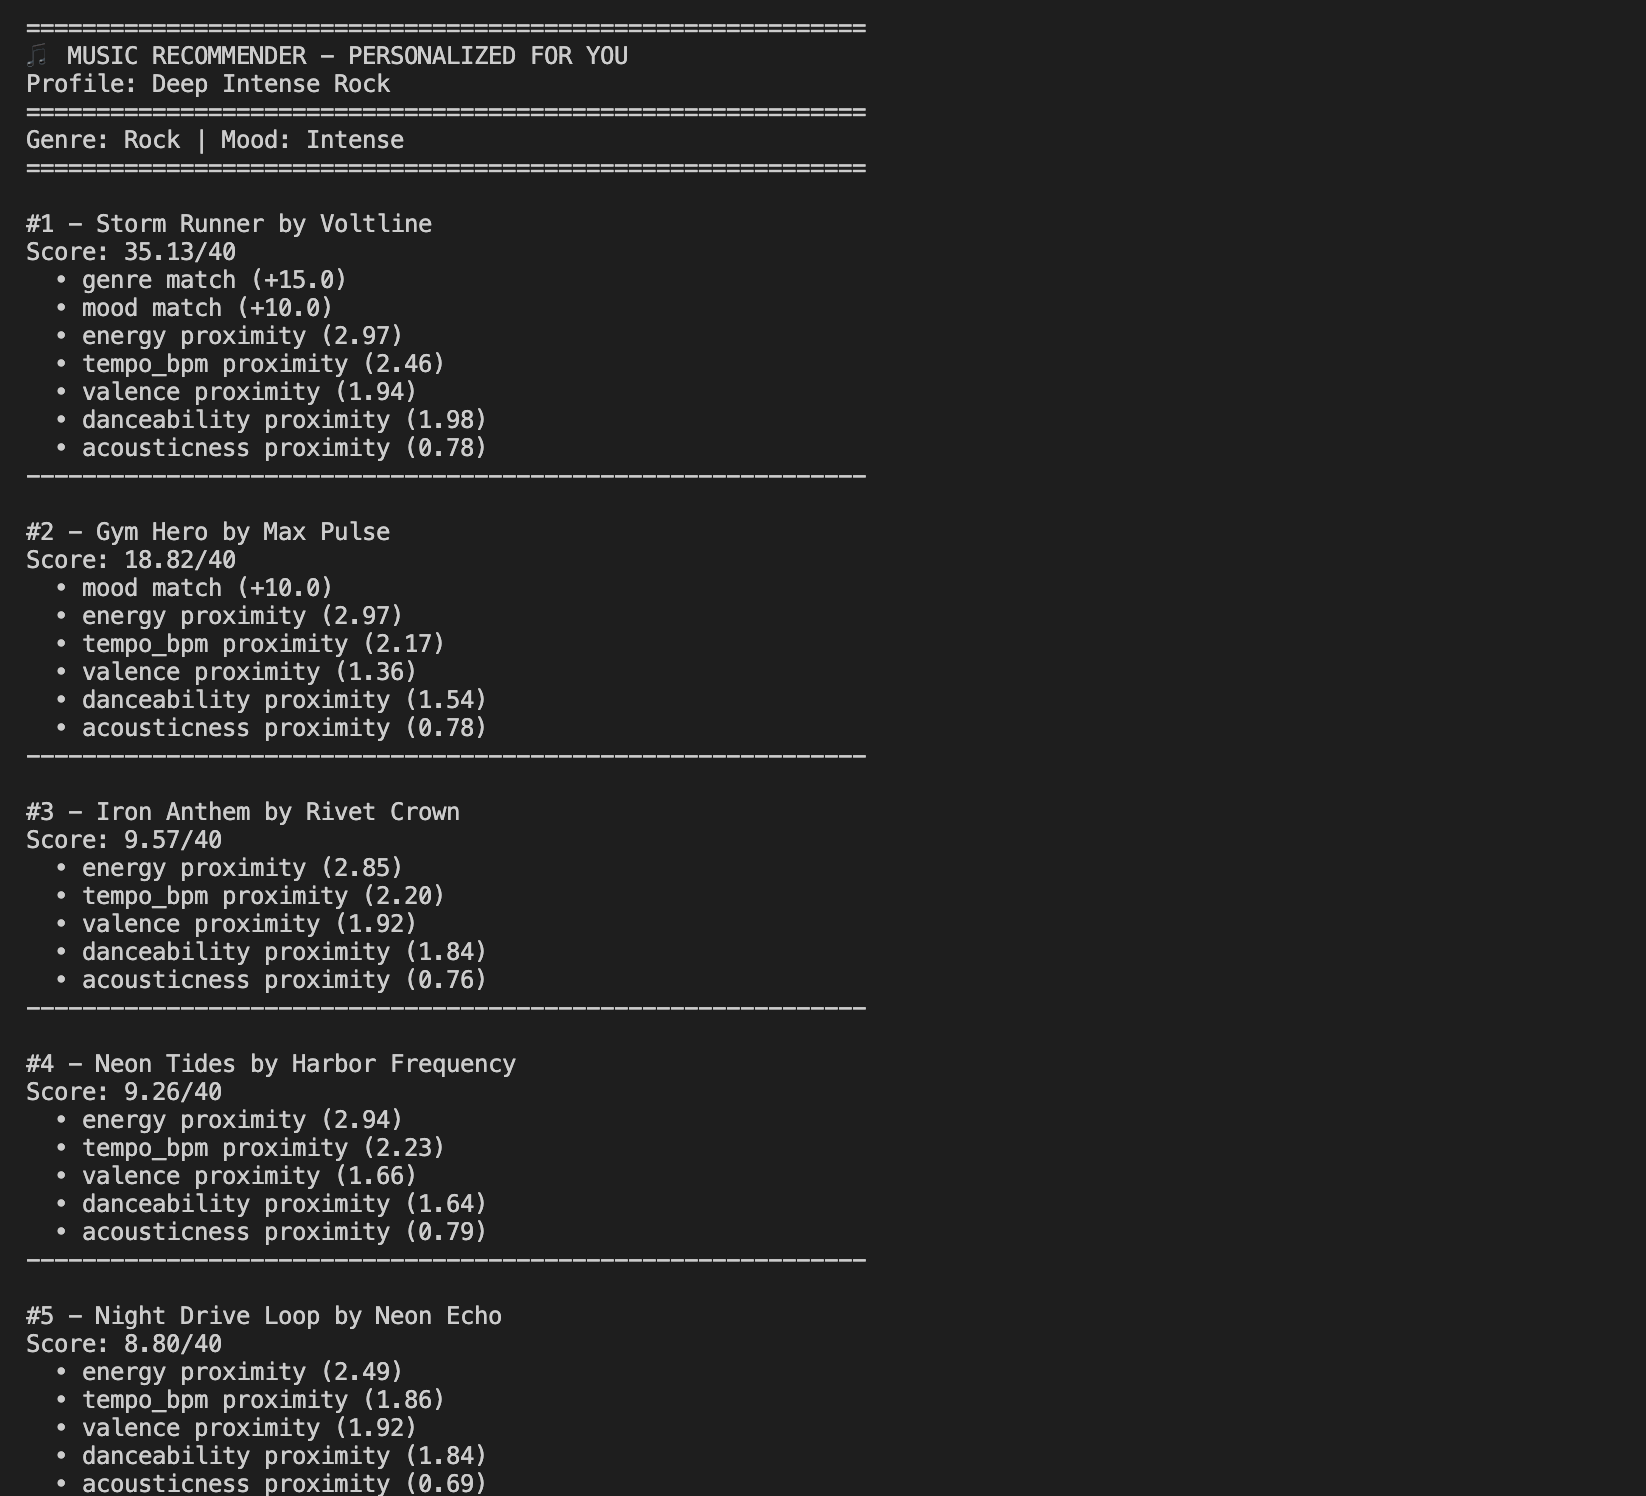
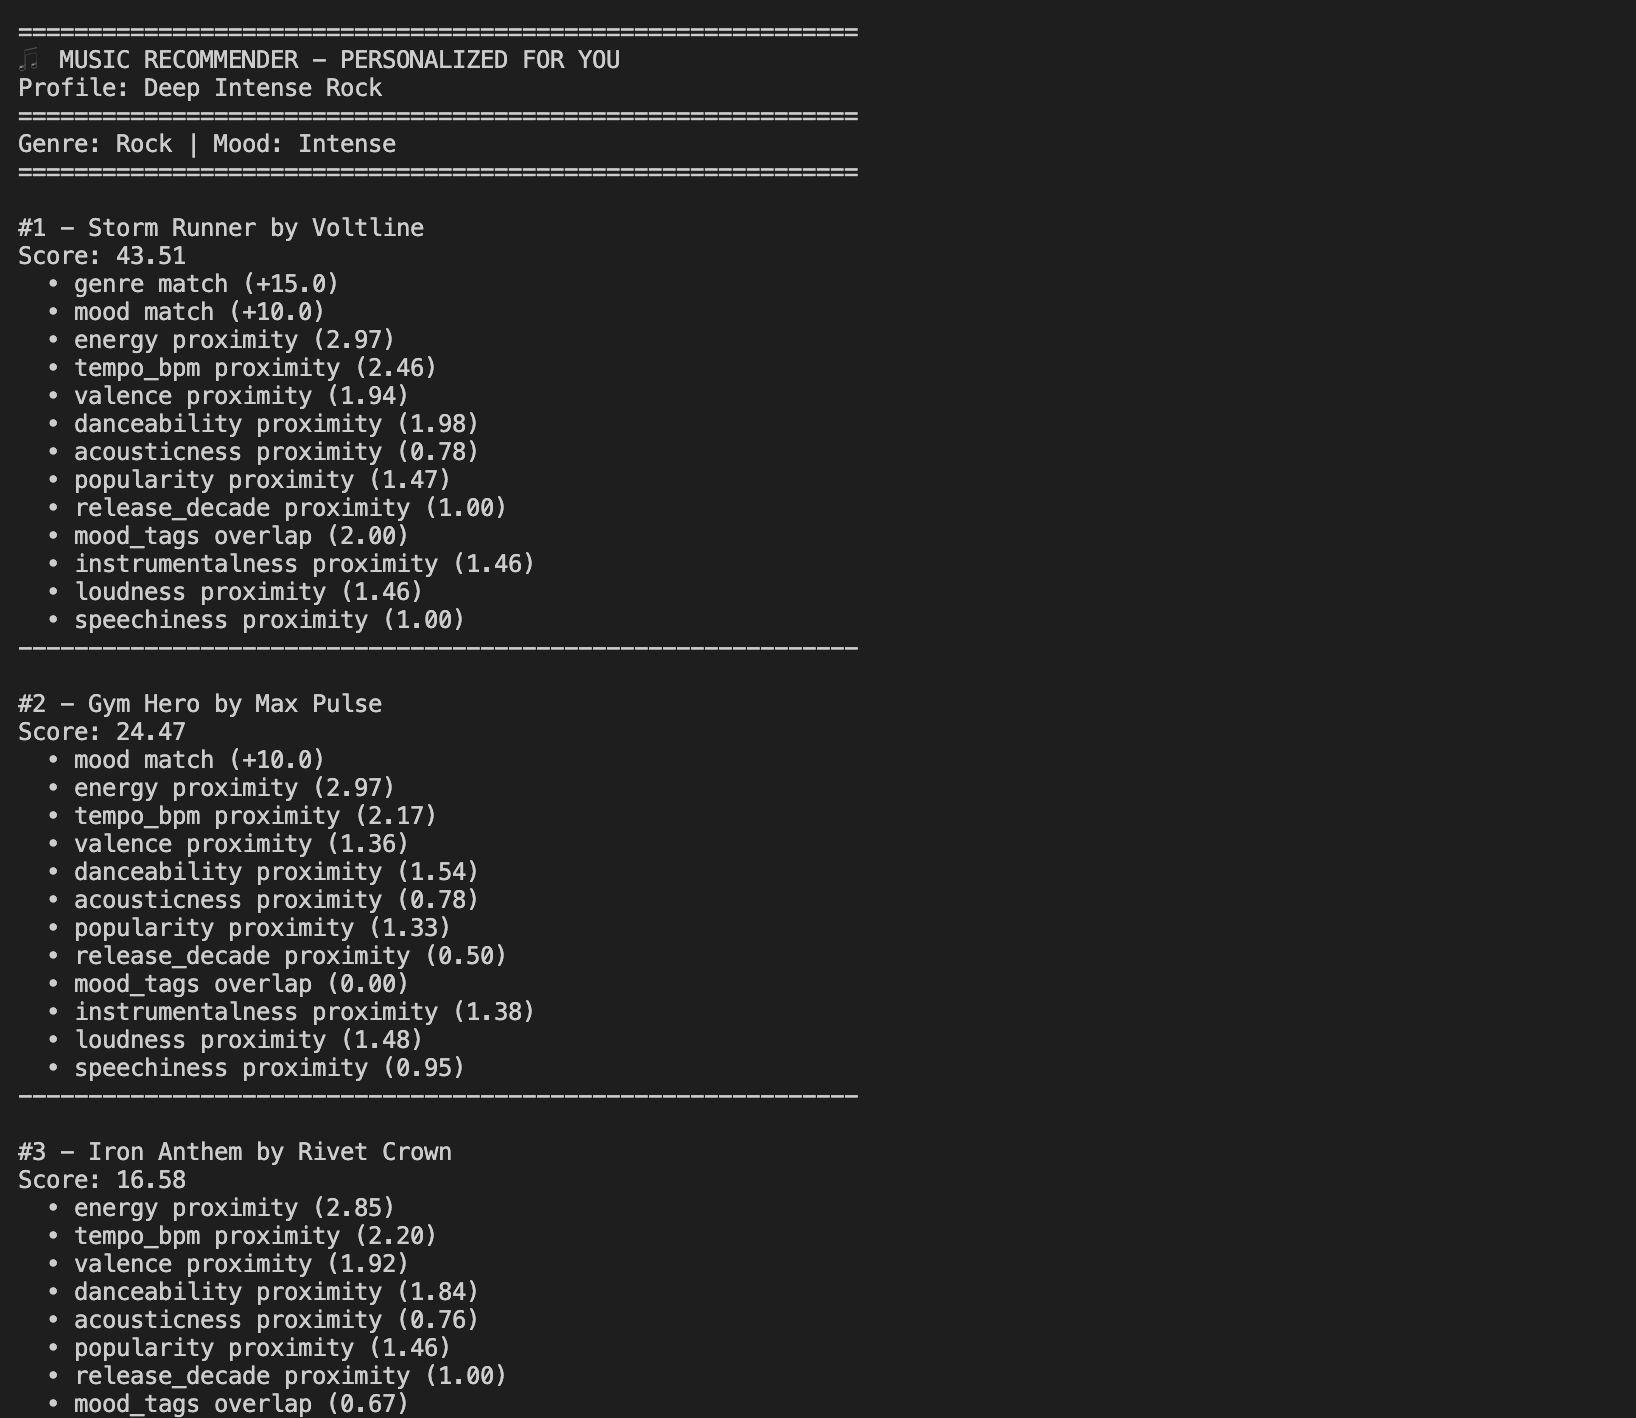
stretch challenge 1: add 6 new features to dataset and scoring, update README and screenshots

Changed region(s): [[0.0, 0.0, 0.53, 1.0]]

diff --git a/src/recommender.py b/src/recommender.py
@@ -52,15 +52,28 @@ def load_songs(csv_path: str) -> List[Dict]:
     """Read songs from a CSV file and return a list of dicts with numeric fields cast to float/int."""
 
     songs: List[Dict] = []
-    float_fields = {"energy", "tempo_bpm", "valence", "danceability", "acousticness"}
+    float_fields = {
+        "energy",
+        "tempo_bpm",
+        "valence",
+        "danceability",
+        "acousticness",
+        "instrumentalness",
+        "loudness",
+        "speechiness",
+    }
+    int_fields = {"id", "popularity", "release_decade"}
 
     with open(csv_path, newline="", encoding="utf-8") as csv_file:
         reader = csv.DictReader(csv_file)
         for row in reader:
             song = dict(row)
-            song["id"] = int(song["id"])
+            for field in int_fields:
+                if field in song and song[field] != "":
+                    song[field] = int(song[field])
             for field in float_fields:
-                song[field] = float(song[field])
+                if field in song and song[field] != "":
+                    song[field] = float(song[field])
             songs.append(song)
 
     return songs
@@ -96,6 +109,50 @@ def score_song(user_prefs: Dict, song: Dict) -> Tuple[float, str]:
         proximity = weight * (1 - abs(user_val - song_val) / range_val)
         score += proximity
         reasons.append(f"{feature_name} proximity ({proximity:.2f})")
+
+    popularity_score = 1.5 * (1 - abs(user_prefs.get('popularity', 50) - song['popularity']) / 100)
+    score += popularity_score
+    reasons.append(f"popularity proximity ({popularity_score:.2f})")
+
+    user_decade = user_prefs.get('release_decade', song['release_decade'])
+    decade_gap = abs(user_decade - song['release_decade']) // 10
+    if decade_gap == 0:
+        release_decade_score = 1.0
+    elif decade_gap == 1:
+        release_decade_score = 0.5
+    else:
+        release_decade_score = 0.0
+    score += release_decade_score
+    reasons.append(f"release_decade proximity ({release_decade_score:.2f})")
+
+    user_tags_raw = user_prefs.get('mood_tags', '')
+    if isinstance(user_tags_raw, str):
+        user_tags = [tag.strip().lower() for tag in user_tags_raw.split(',') if tag.strip()]
+    else:
+        user_tags = [str(tag).strip().lower() for tag in user_tags_raw if str(tag).strip()]
+
+    song_tags_raw = song.get('mood_tags', '')
+    if isinstance(song_tags_raw, str):
+        song_tags = [tag.strip().lower() for tag in song_tags_raw.split(',') if tag.strip()]
+    else:
+        song_tags = [str(tag).strip().lower() for tag in song_tags_raw if str(tag).strip()]
+
+    matching_tags = len(set(user_tags) & set(song_tags))
+    mood_tags_score = 2.0 * (matching_tags / len(user_tags)) if user_tags else 0.0
+    score += mood_tags_score
+    reasons.append(f"mood_tags overlap ({mood_tags_score:.2f})")
+
+    instrumentalness_score = 1.5 * (1 - abs(user_prefs.get('instrumentalness', 0.5) - song['instrumentalness']))
+    score += instrumentalness_score
+    reasons.append(f"instrumentalness proximity ({instrumentalness_score:.2f})")
+
+    loudness_score = 1.5 * (1 - abs(user_prefs.get('loudness', 0.5) - song['loudness']))
+    score += loudness_score
+    reasons.append(f"loudness proximity ({loudness_score:.2f})")
+
+    speechiness_score = 1.0 * (1 - abs(user_prefs.get('speechiness', 0.5) - song['speechiness']))
+    score += speechiness_score
+    reasons.append(f"speechiness proximity ({speechiness_score:.2f})")
     
     explanation = ", ".join(reasons)
     return (score, explanation)

diff --git a/src/main.py b/src/main.py
@@ -11,7 +11,13 @@ def main() -> None:
             "tempo_bpm": 130,
             "valence": 0.85,
             "danceability": 0.88,
-            "acousticness": 0.10
+            "acousticness": 0.10,
+            "popularity": 85,
+            "release_decade": 2020,
+            "mood_tags": "uplifting,energetic,anthemic",
+            "instrumentalness": 0.08,
+            "loudness": 0.88,
+            "speechiness": 0.09
         },
         "Chill Lofi": {
             "genre": "lofi",
@@ -20,7 +26,13 @@ def main() -> None:
             "tempo_bpm": 76,
             "valence": 0.58,
             "danceability": 0.60,
-            "acousticness": 0.78
+            "acousticness": 0.78,
+            "popularity": 66,
+            "release_decade": 2020,
+            "mood_tags": "calm,study,nocturnal",
+            "instrumentalness": 0.70,
+            "loudness": 0.32,
+            "speechiness": 0.04
         },
         "Deep Intense Rock": {
             "genre": "rock",
@@ -29,7 +41,13 @@ def main() -> None:
             "tempo_bpm": 155,
             "valence": 0.45,
             "danceability": 0.65,
-            "acousticness": 0.08
+            "acousticness": 0.08,
+            "popularity": 72,
+            "release_decade": 2010,
+            "mood_tags": "aggressive,driving,charged",
+            "instrumentalness": 0.10,
+            "loudness": 0.91,
+            "speechiness": 0.06
         }, 
         "Middle-of-the-Road": {
         "genre": "lofi",
@@ -38,7 +56,13 @@ def main() -> None:
         "tempo_bpm": 120,
         "valence": 0.50,
         "danceability": 0.50,
-        "acousticness": 0.50
+        "acousticness": 0.50,
+        "popularity": 60,
+        "release_decade": 2010,
+        "mood_tags": "balanced,steady,chill",
+        "instrumentalness": 0.50,
+        "loudness": 0.50,
+        "speechiness": 0.10
         }
     }
 
@@ -57,7 +81,7 @@ def main() -> None:
         for rank, rec in enumerate(recommendations, 1):
             song, score, explanation = rec
             print(f"#{rank} - {song['title']} by {song.get('artist', 'Unknown')}")
-            print(f"Score: {score:.2f}/40")
+            print(f"Score: {score:.2f}")
             
             # Handle explanation as string or list
             explanation_list = explanation.split(", ")

diff --git a/README.md b/README.md
@@ -2,7 +2,7 @@
 
 ## Project Summary
 
-VibeFinder 1.0 is a content-based music recommender simulator built in Python. It loads a catalog of 18 songs, scores each one against a user's taste profile using weighted genre, mood, and audio feature matching, and returns a ranked list of personalized recommendations with explanations. This project explores how real-world platforms like Spotify turn song attributes and user preferences into predictions.
+VibeFinder 1.0 is a content-based music recommender simulator built in Python. It loads a catalog of 18 songs with 16 attributes each, scores each one against a user's taste profile using weighted genre, mood, and audio feature matching, and returns a ranked list of personalized recommendations with explanations. This project explores how real-world platforms like Spotify turn song attributes and user preferences into predictions.
 
 ---
 
@@ -31,27 +31,40 @@ Real-world platforms like Spotify and YouTube Music primarily use two approaches
 - `valence` — musical positivity (0.0–1.0)
 - `danceability` — rhythmic suitability for dancing (0.0–1.0)
 - `acousticness` — acoustic vs. electronic quality (0.0–1.0)
+- `popularity` — track popularity score (0–100)
+- `release_decade` — decade the track was released (e.g., 2010, 2020)
+- `mood_tags` — detailed sub-mood descriptors (e.g., "nostalgic, dreamy, uplifting")
+- `instrumentalness` — vocal vs. instrumental ratio (0.0–1.0)
+- `loudness` — perceived loudness level (0.0–1.0)
+- `speechiness` — degree of spoken word content (0.0–1.0)
 
 **`UserProfile` features:**
 
 - `preferred_genre`, `preferred_mood` — categorical taste preferences
 - `preferred_energy`, `preferred_tempo_bpm`, `preferred_valence`, `preferred_danceability`, `preferred_acousticness` — target numerical values the recommender scores each song against
+- `popularity`, `release_decade`, `mood_tags`, `instrumentalness`, `loudness`, `speechiness` — extended preference targets for the new song attributes
 
 ### Algorithm Recipe
 
 Each song is scored against the user profile using the following weights:
 
-| Feature                | Type        | Points                            |
-| ---------------------- | ----------- | --------------------------------- |
-| Genre match            | Categorical | +15                               |
-| Mood match             | Categorical | +10                               |
-| Energy proximity       | Numerical   | 3.0 × (1 - \|user − song\|)       |
-| Tempo proximity        | Numerical   | 2.5 × (1 - \|user − song\| / 176) |
-| Valence proximity      | Numerical   | 2.0 × (1 - \|user − song\|)       |
-| Danceability proximity | Numerical   | 2.0 × (1 - \|user − song\|)       |
-| Acousticness proximity | Numerical   | 0.8 × (1 - \|user − song\|)       |
+| Feature                    | Type        | Points                                     |
+| -------------------------- | ----------- | ------------------------------------------ |
+| Genre match                | Categorical | +15                                        |
+| Mood match                 | Categorical | +10                                        |
+| Energy proximity           | Numerical   | 3.0 × (1 - \|user − song\|)                |
+| Tempo proximity            | Numerical   | 2.5 × (1 - \|user − song\| / 176)          |
+| Valence proximity          | Numerical   | 2.0 × (1 - \|user − song\|)                |
+| Danceability proximity     | Numerical   | 2.0 × (1 - \|user − song\|)                |
+| Acousticness proximity     | Numerical   | 0.8 × (1 - \|user − song\|)                |
+| Popularity proximity       | Numerical   | 1.5 × (1 - \|user − song\| / 100)          |
+| Release decade             | Numerical   | 1.0 exact, 0.5 one decade off, 0 otherwise |
+| Mood tags overlap          | Numerical   | 2.0 × (matching tags / total user tags)    |
+| Instrumentalness proximity | Numerical   | 1.5 × (1 - \|user − song\|)                |
+| Loudness proximity         | Numerical   | 1.5 × (1 - \|user − song\|)                |
+| Speechiness proximity      | Numerical   | 1.0 × (1 - \|user − song\|)                |
 
-**Maximum possible score: ~40 points.** Songs are ranked by total score and the top-K results are returned as recommendations.
+**Maximum possible score: ~49.5 points.** Songs are ranked by total score and the top-K results are returned as recommendations.
 
 ### Expected Bias
 
